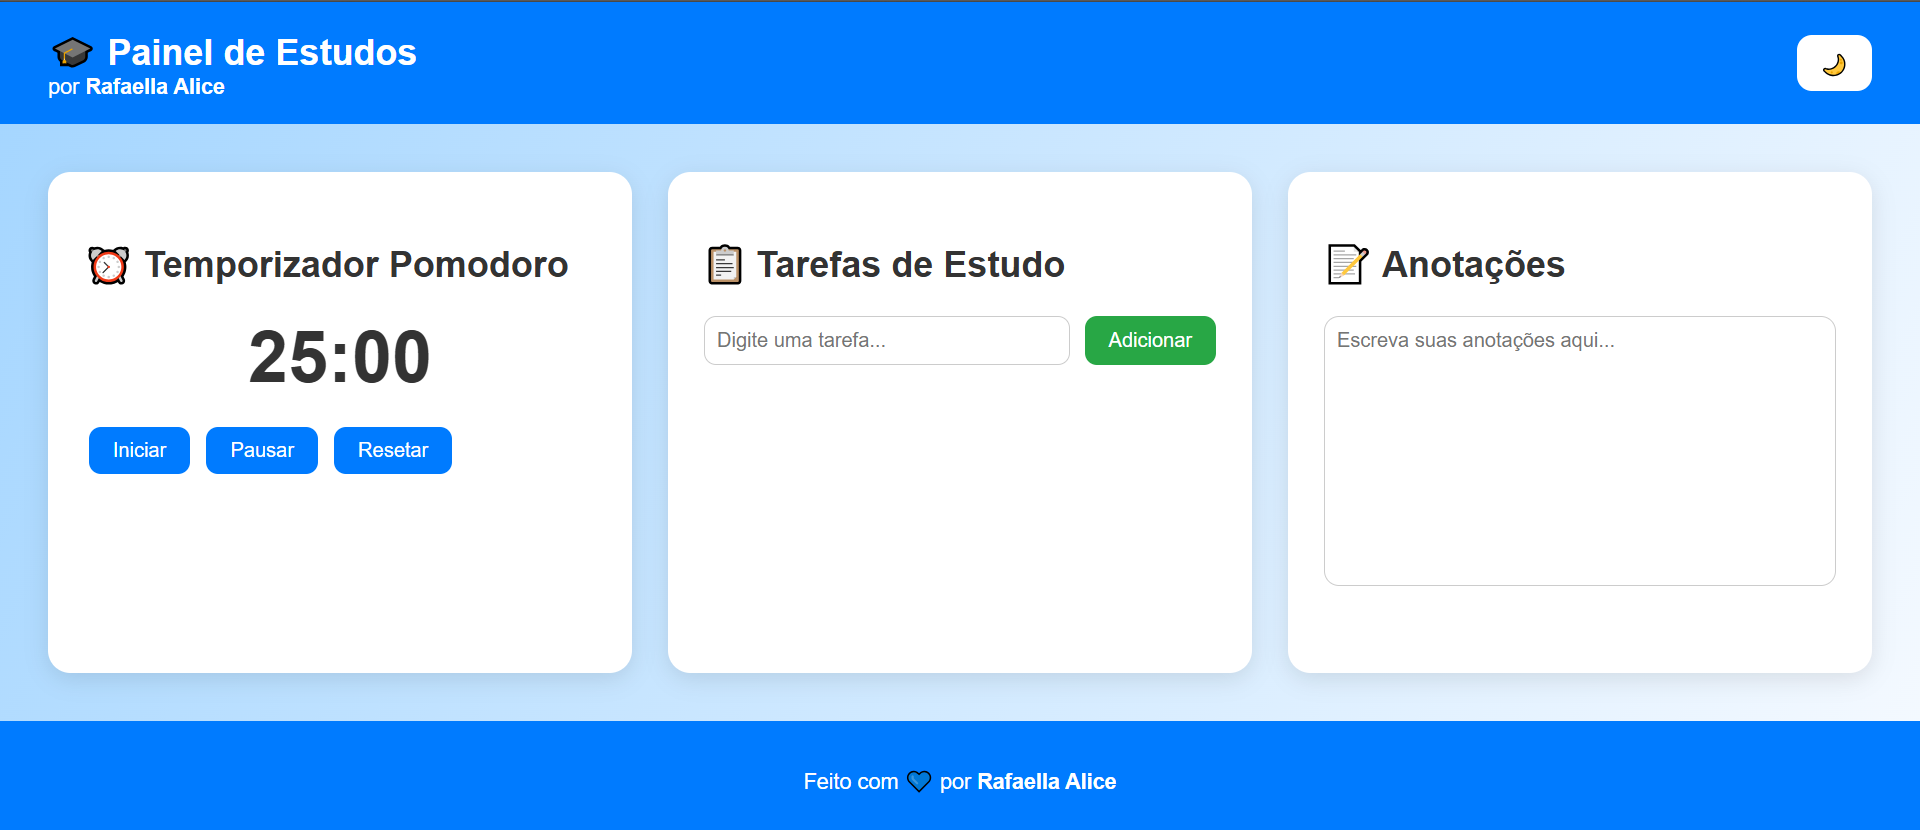
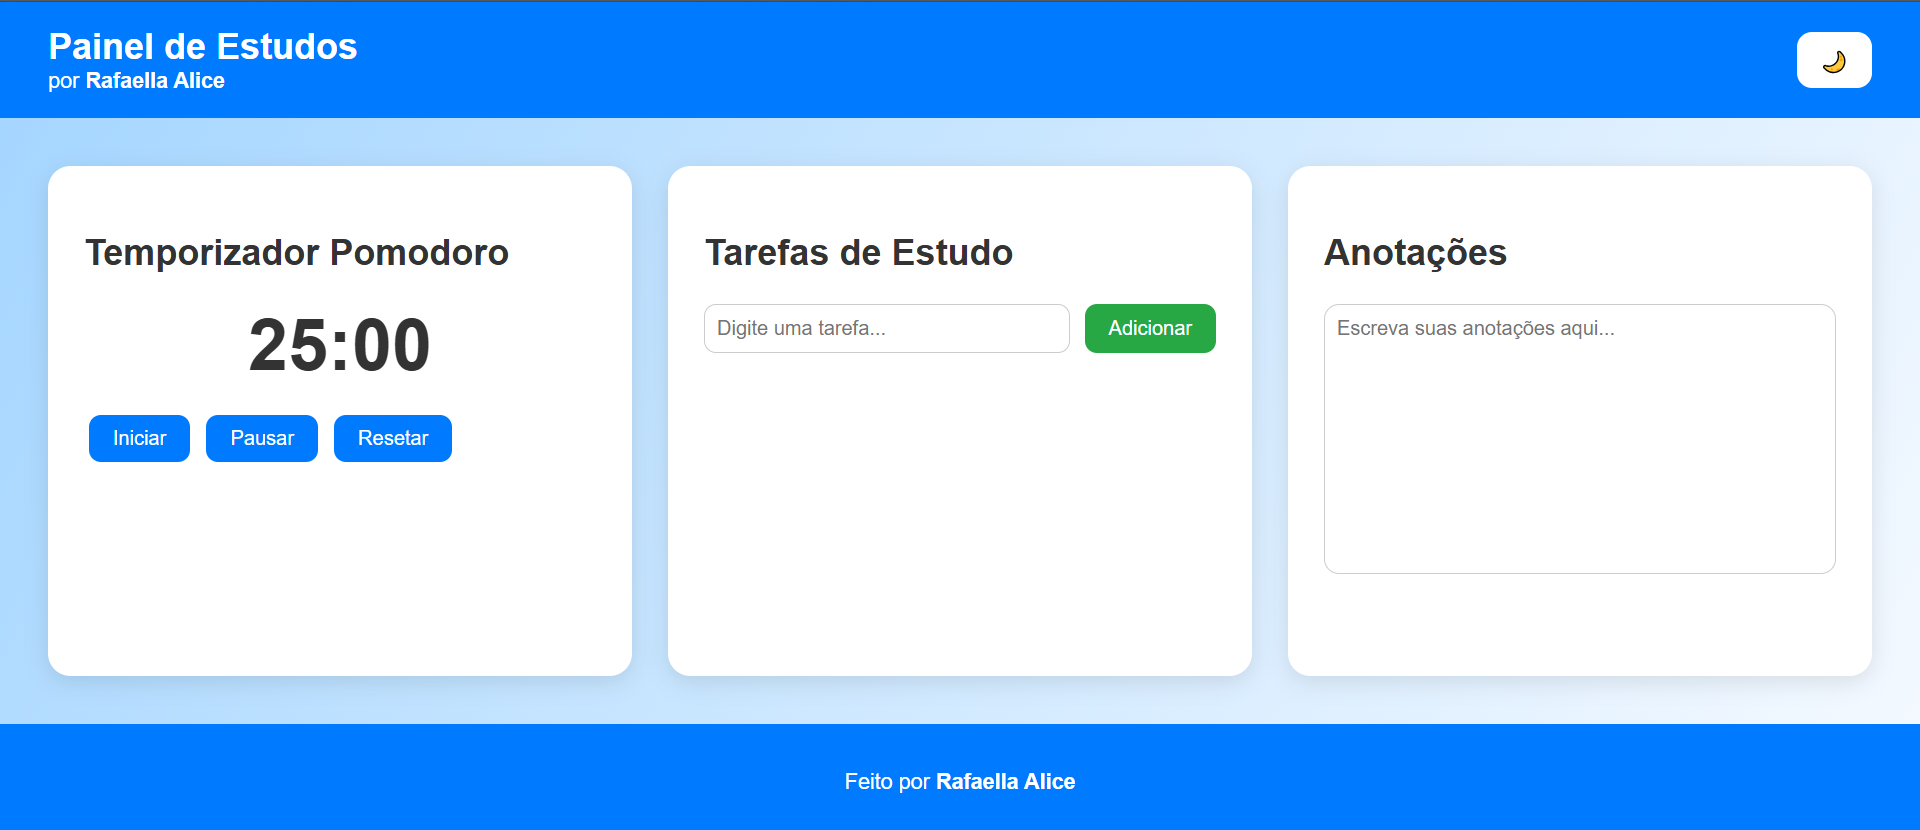
PaineDeEstudosResponsivoJS

diff --git a/index.html b/index.html
@@ -9,16 +9,16 @@
 <body>
   <header>
     <div class="title">
-      <h1>🎓 Painel de Estudos</h1>
+      <h1> Painel de Estudos</h1>
       <p>por <strong>Rafaella Alice</strong></p>
     </div>
     <button id="toggleDarkMode">🌙</button>
   </header>
 
   <main>
-    <!-- Pomodoro -->
+    
     <section class="pomodoro card">
-      <h2>⏰ Temporizador Pomodoro</h2>
+      <h2> Temporizador Pomodoro</h2>
       <div id="timer">25:00</div>
       <div class="controls">
         <button id="start">Iniciar</button>
@@ -27,9 +27,9 @@
       </div>
     </section>
 
-    <!-- Tarefas -->
+  
     <section class="tasks card">
-      <h2>📋 Tarefas de Estudo</h2>
+      <h2>Tarefas de Estudo</h2>
       <div class="add-task">
         <input type="text" id="taskInput" placeholder="Digite uma tarefa..." />
         <button id="addTask">Adicionar</button>
@@ -37,15 +37,14 @@
       <ul id="taskList"></ul>
     </section>
 
-    <!-- Anotações -->
     <section class="notes card">
-      <h2>📝 Anotações</h2>
+      <h2>Anotações</h2>
       <textarea id="noteArea" placeholder="Escreva suas anotações aqui..."></textarea>
     </section>
   </main>
 
   <footer>
-    <p>Feito com 💙 por <strong>Rafaella Alice</strong></p>
+    <p>Feito por <strong>Rafaella Alice</strong></p>
   </footer>
 
   <script src="script.js"></script>

diff --git a/readme.md b/readme.md
@@ -1,4 +1,4 @@
-# 🎓 Painel de Estudos - Rafaella Alice
+# Painel de Estudos - Rafaella Alice
 
 <img src="/img/paineldeestudos.png" alt="">
 
@@ -7,7 +7,7 @@
 
 ---
 
-## 🛠 Tecnologias Utilizadas
+## Tecnologias Utilizadas
 
 <p align="left">
   <img src="https://img.shields.io/badge/HTML5-E34F26?style=for-the-badge&logo=html5&logoColor=white" />
@@ -17,7 +17,7 @@
 
 ---
 
-## 🚀 Funcionalidades
+## Funcionalidades
 
 - ⏰ *Temporizador Pomodoro:* controle de tempo de estudo com opções de iniciar, pausar e resetar.  
 - 📋 *Lista de Tarefas:* adicione, conclua e exclua tarefas; todas salvas no navegador.  
@@ -27,19 +27,19 @@
 
 ---
 
-## 🧩 Tecnologias e Ferramentas
+## Tecnologias e Ferramentas
 
-### 🔹 *HTML5*
+### *HTML5*
 - Estrutura semântica e acessível usando <header>, <main>, <section> e <footer>.  
 - Organização modular e bem comentada para fácil manutenção.  
 
-### 🔹 *CSS3*
+### *CSS3*
 - Design moderno com *Flexbox* e *CSS Grid*.  
 - *Media Queries* para responsividade total.  
 - Paleta de cores suaves e tipografia com *Poppins*.  
 - Implementação de *modo escuro* com transições suaves.  
 
-### 🔹 *JavaScript (ES6+)*
+### *JavaScript (ES6+)*
 - Controle lógico do temporizador com setInterval.  
 - Manipulação do DOM para tarefas e anotações.  
 - Armazenamento local via *Local Storage* (dados persistem mesmo após atualizar a página).  
@@ -47,13 +47,13 @@
 
 ---
 
-## 💾 Armazenamento Local
+## Armazenamento Local
 
 O projeto utiliza o *Local Storage* do navegador para guardar:
-- ✅ Tarefas adicionadas  
-- 📝 Anotações digitadas  
+- Tarefas adicionadas  
+- Anotações digitadas  
 Esses dados são carregados automaticamente quando o usuário retorna ao site.
 
 ---
 
-## 📁 Estrutura de Pastas
+## Estrutura de Pastas
